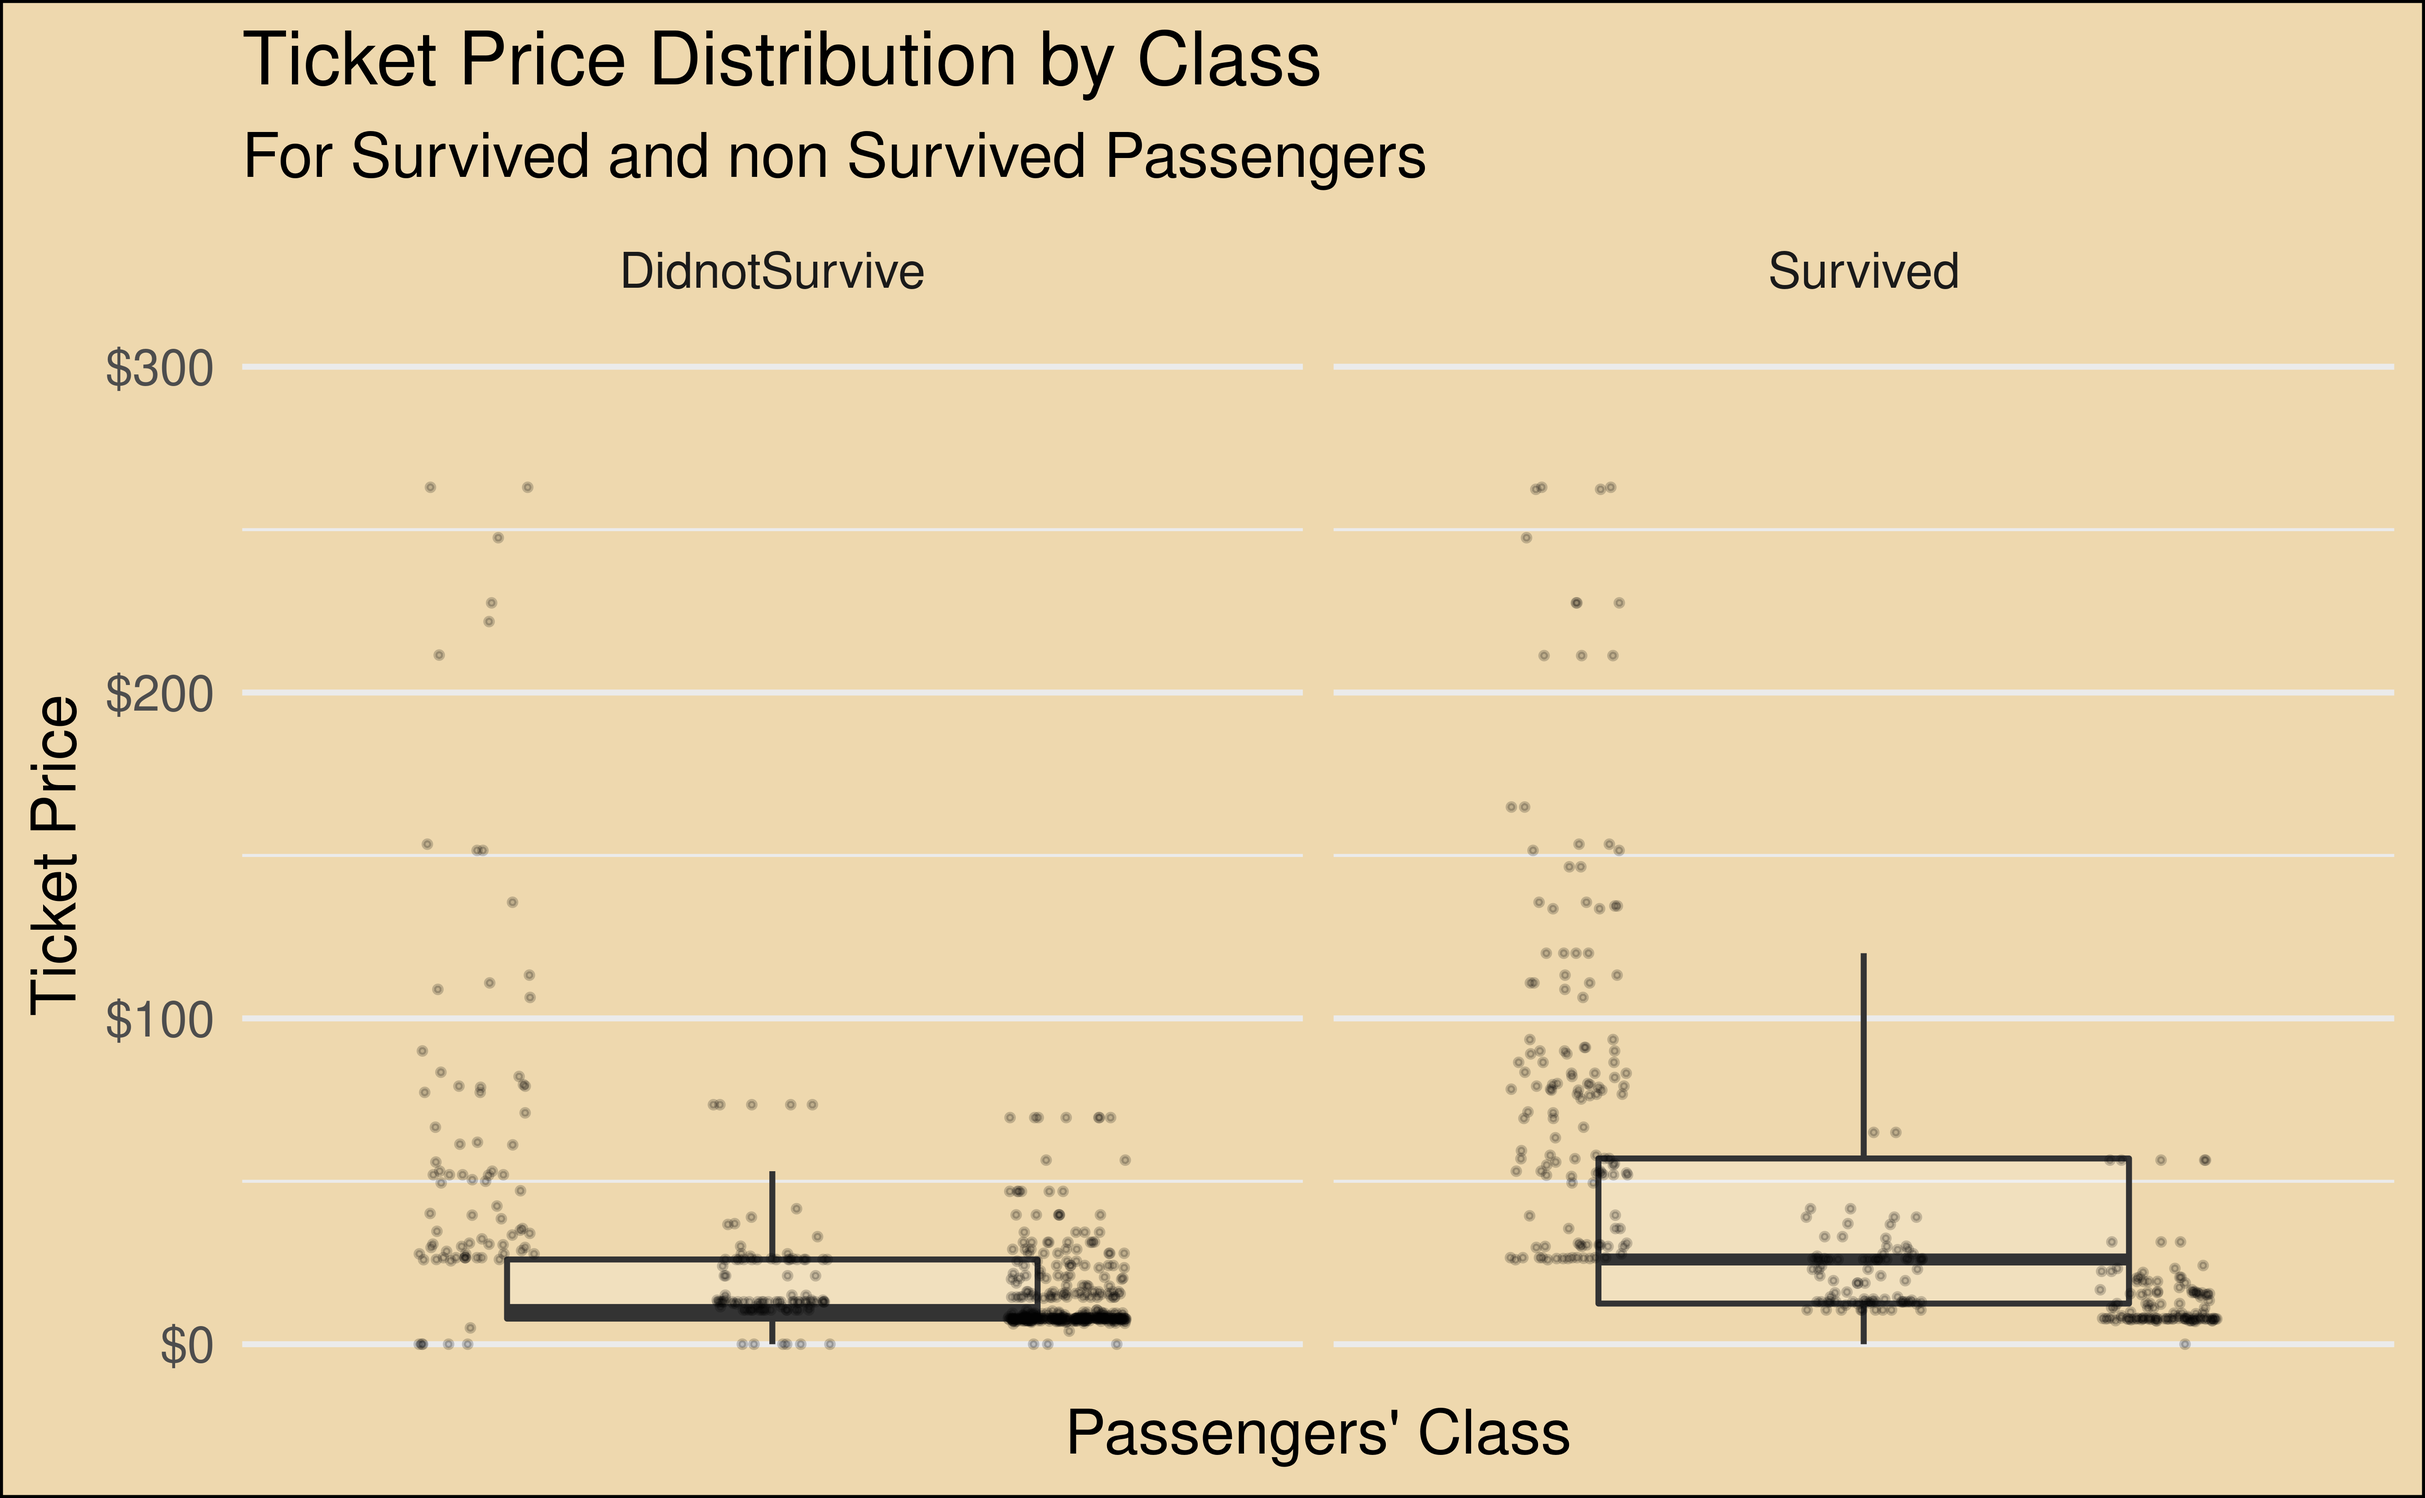
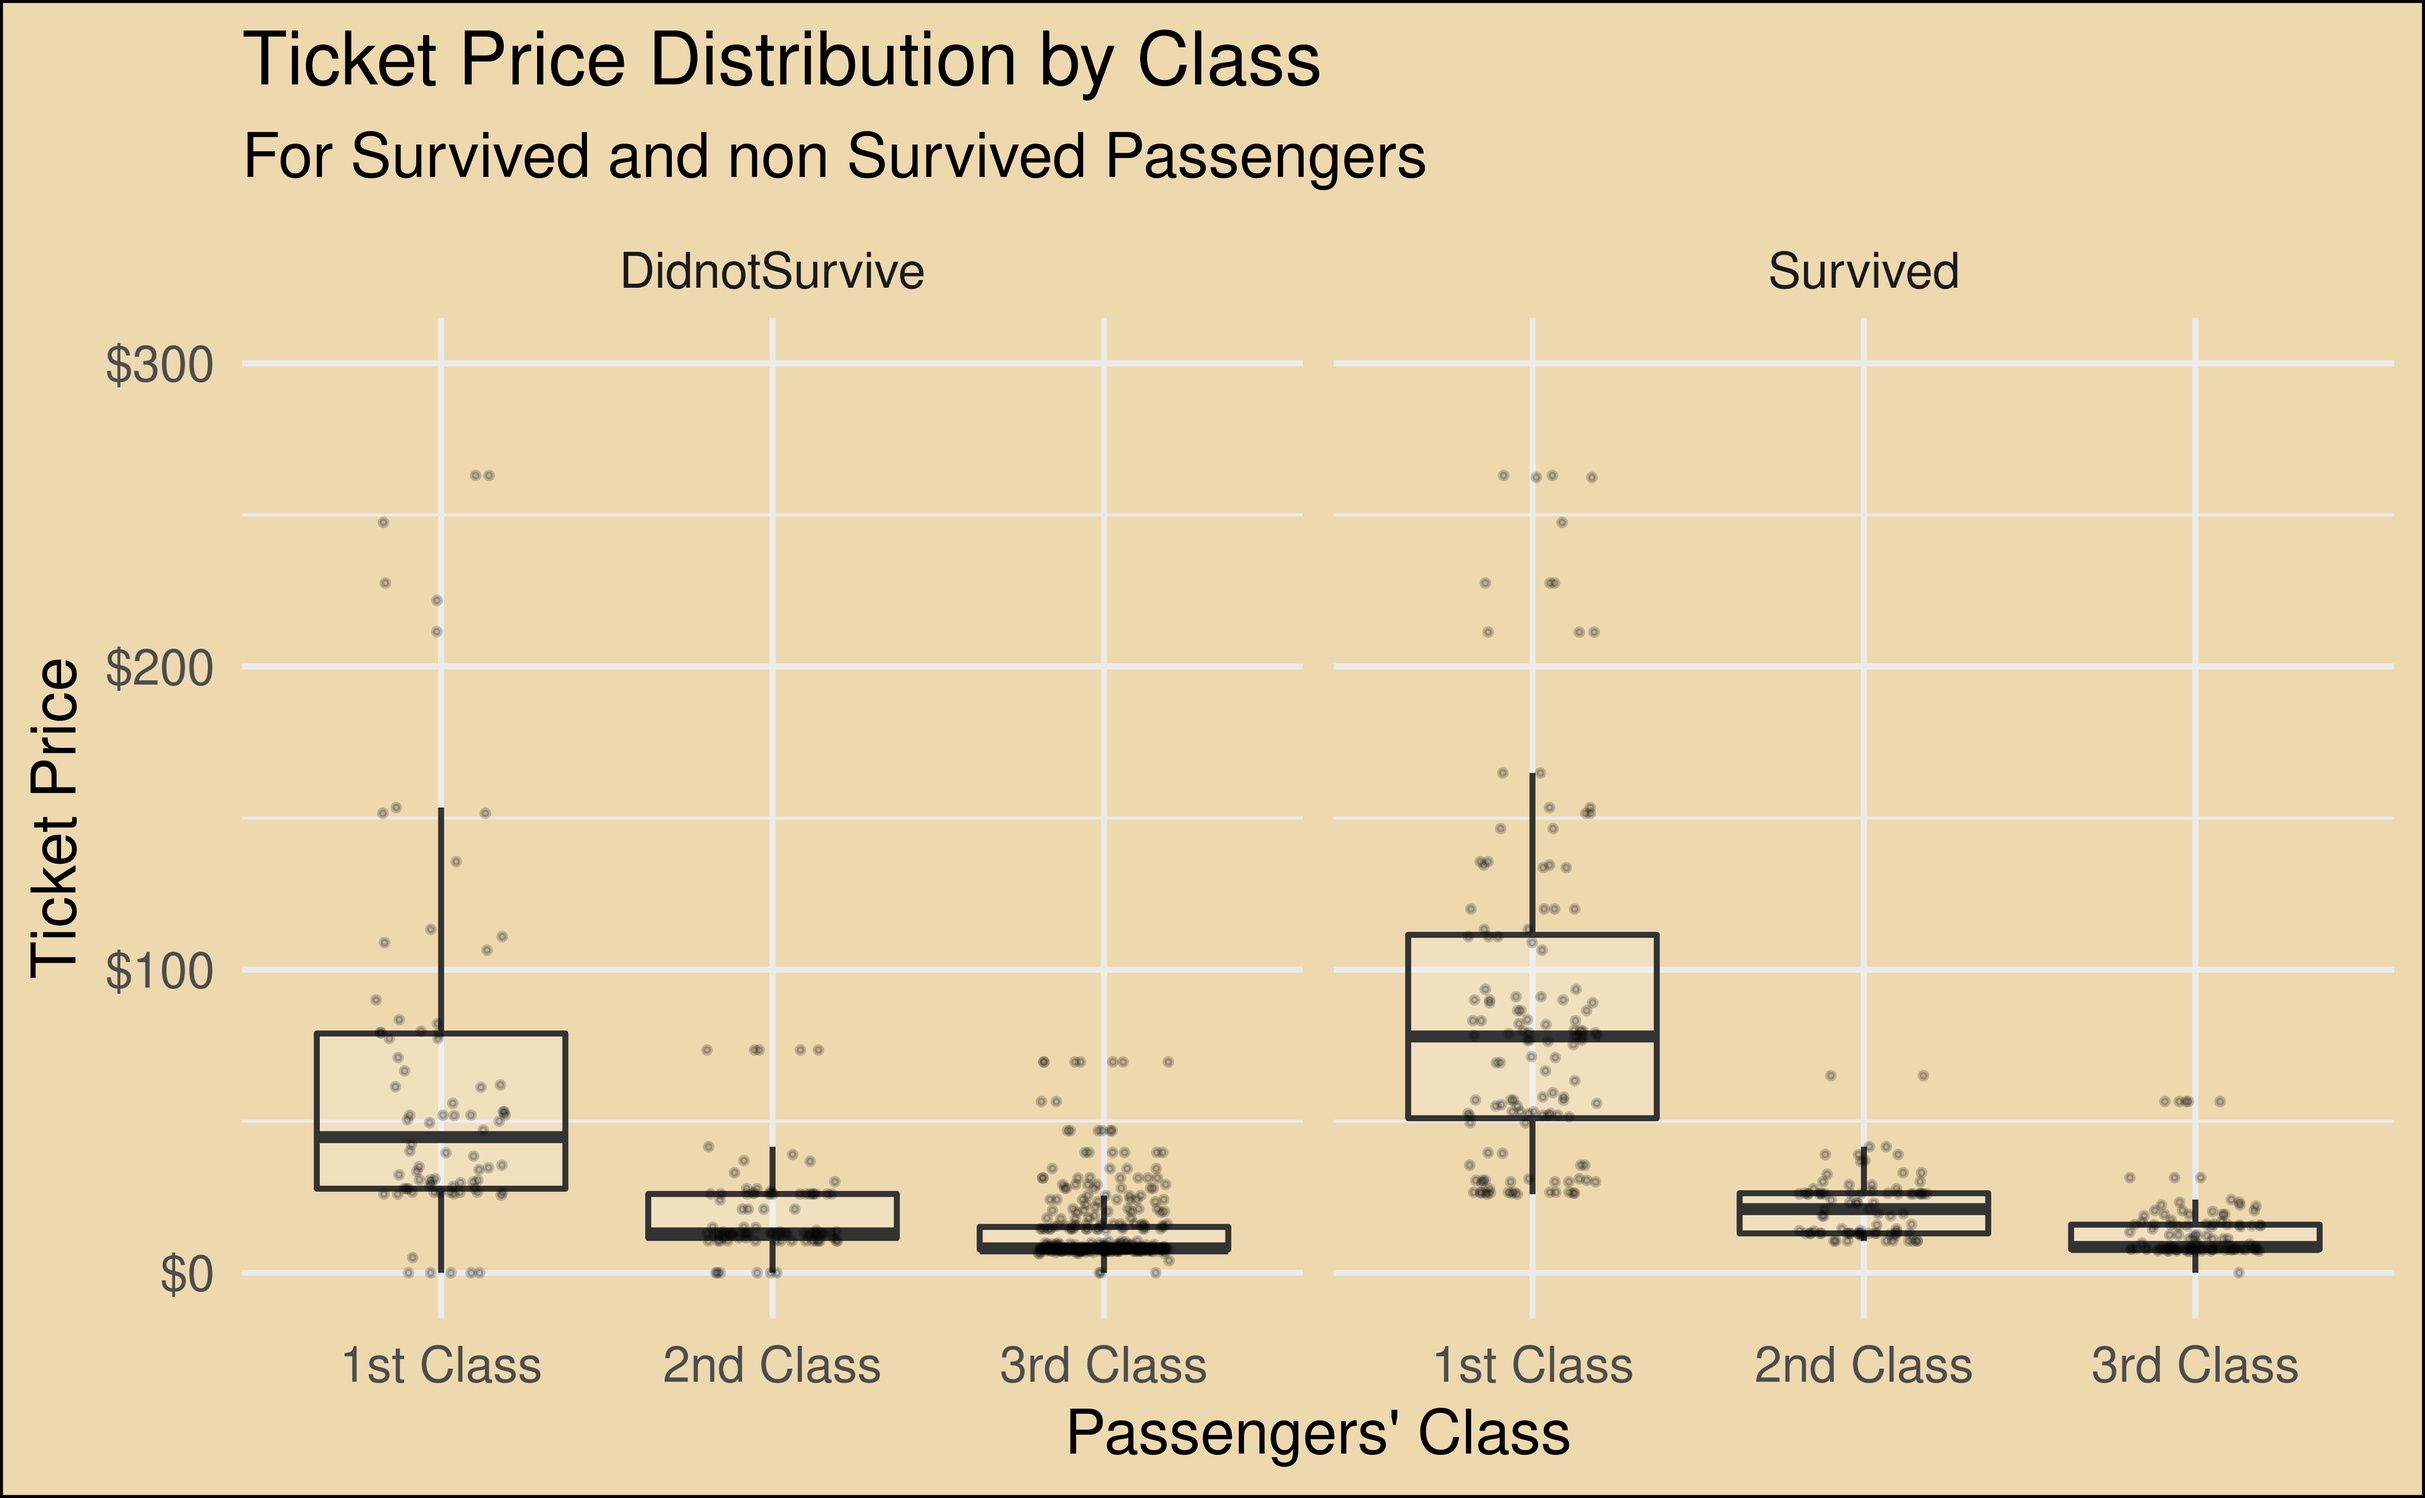
d merge

diff --git a/presentation/presentation.html b/presentation/presentation.html
@@ -43,19 +43,11 @@ class: center, middle, inverse, title-slide
 - Bibliography
  
 ---
-<<<<<<< HEAD
 class: inverse , middle , center 
 # Research Aim 
 
  
 ### Is the chance of survival of Titanic passengers related to different attributes of the passengers? If so, how?
-=======
-"Touted as the ultimate in transatlantic travel and said to be “unsinkable”, the Titanic collided with an iceberg on 14 April 1912 on her maiden voyage and sank shortly thereafter on 15 April, killing 1502 out of 2224 passengers and crew." [1]
- 
-We want to see 
- 
-### If and how the chance of survival of Titanic passengers is related to different attributes of the passengers 
->>>>>>> 62e0271849606b4f855d0f79118545d1473f6d5f
  
 ---
 # Data set
@@ -73,7 +65,6 @@ We want to see
 - `Embarked`: Port of embarkation (C = Cherbourg, Q = Queenstown, S = Southampton)[3] ]
  
 ---
-<<<<<<< HEAD
 class: inverse, middle, center 
 
 # Is Age related to Passenger's Survival Rate ? 
@@ -87,33 +78,6 @@ class: inverse, middle, center
 
 Age is considered a major factor of survival when it comes to physical abilities of a passenger as well as prioritizing  life saving equipment 
 
-=======
-class: inverse, middle, center
-# Gender and Survival
- 
----
- 
-# Introduction
-* During the times when the sinking of the Titanic accident occurred (1912), in the spirit of chivalry women (and children) were saved first. This was historically recorded as orders from the captain of the Titanic.
---
- 
- 
- 
-* Women have higher survival rate than men. 
- 
----
- 
-# Visualization
-.pull-left[
-- Use gender as the predictor variable and frequency displayed in terms of colors showing survivals or not as the outcome variable.
-]
- 
-.pull-right[
-&lt;img src="presentation_files/figure-html/gender-survival-1.png" width="100%" /&gt;
-]
- 
- 
->>>>>>> 62e0271849606b4f855d0f79118545d1473f6d5f
 ---
 
 .left-column[
@@ -189,7 +153,6 @@ class: inverse, middle, center
 &lt;img src="presentation_files/figure-html/age-survival-rate-1.png" width="80%" /&gt;
 ]
 ---
-<<<<<<< HEAD
 class: inverse, middle, center
 
 ## Is Gender related to Passenger's Survival Rate ?
@@ -237,59 +200,10 @@ class: inverse, middle, center
    &lt;th style="text-align:center;"&gt; Passenger Class &lt;/th&gt;
    &lt;th style="text-align:center;"&gt; Survived &lt;/th&gt;
    &lt;th style="text-align:center;"&gt; Median Price ($) &lt;/th&gt;
-=======
- 
-class: inverse, middle, center
-# Age and Survival
----
-# Introduction
-- give priority to saving infants and children when it comes to providing life saving equipment
- 
-- physical abilities
----
-# Data analysis 
-.pull-left[
-&lt;img src="presentation_files/figure-html/age-survival-1.png" width="90%" /&gt;
-]
- 
- 
-.pull_right[
- 
-- Predicted variable are "Age" and "Frequency" as the outcome variable. 
-- generally, the younger the more people survived.
-]
----
- 
- 
-.pull_left
-
- 
-&lt;img src="presentation_files/figure-html/unnamed-chunk-1-1.png" width="80%" /&gt;
- 
---- 
- 
-class: inverse, middle, center 
-# Is wealth associated with passengers' survival rate ? 
---- 
-# Ticket Price &amp; Passengers' Class  
- 
-.pull-left[ 
-&lt;img src="presentation_files/figure-html/fare-boxplot -1.png" width="1200" /&gt;
-] 
- 
-.pull-right[  
-&lt;table&gt;
- &lt;thead&gt;
-  &lt;tr&gt;
-   &lt;th style="text-align:left;"&gt; Passenger_Class &lt;/th&gt;
-   &lt;th style="text-align:left;"&gt; Survived &lt;/th&gt;
-   &lt;th style="text-align:right;"&gt; Median_Price_USD &lt;/th&gt;
->>>>>>> 62e0271849606b4f855d0f79118545d1473f6d5f
   &lt;/tr&gt;
  &lt;/thead&gt;
 &lt;tbody&gt;
   &lt;tr&gt;
-<<<<<<< HEAD
    &lt;td style="text-align:center;"&gt; 1st Class &lt;/td&gt;
    &lt;td style="text-align:center;"&gt; No &lt;/td&gt;
    &lt;td style="text-align:center;"&gt; 44.75 &lt;/td&gt;
@@ -318,52 +232,16 @@ class: inverse, middle, center
    &lt;td style="text-align:center;"&gt; 3rd Class &lt;/td&gt;
    &lt;td style="text-align:center;"&gt; Yes &lt;/td&gt;
    &lt;td style="text-align:center;"&gt; 8.52 &lt;/td&gt;
-=======
-   &lt;td style="text-align:left;"&gt; 1st Class &lt;/td&gt;
-   &lt;td style="text-align:left;"&gt; No &lt;/td&gt;
-   &lt;td style="text-align:right;"&gt; 44.7500 &lt;/td&gt;
-  &lt;/tr&gt;
-  &lt;tr&gt;
-   &lt;td style="text-align:left;"&gt; 1st Class &lt;/td&gt;
-   &lt;td style="text-align:left;"&gt; Yes &lt;/td&gt;
-   &lt;td style="text-align:right;"&gt; 77.9583 &lt;/td&gt;
-  &lt;/tr&gt;
-  &lt;tr&gt;
-   &lt;td style="text-align:left;"&gt; 2nd Class &lt;/td&gt;
-   &lt;td style="text-align:left;"&gt; No &lt;/td&gt;
-   &lt;td style="text-align:right;"&gt; 13.0000 &lt;/td&gt;
-  &lt;/tr&gt;
-  &lt;tr&gt;
-   &lt;td style="text-align:left;"&gt; 2nd Class &lt;/td&gt;
-   &lt;td style="text-align:left;"&gt; Yes &lt;/td&gt;
-   &lt;td style="text-align:right;"&gt; 21.0000 &lt;/td&gt;
-  &lt;/tr&gt;
-  &lt;tr&gt;
-   &lt;td style="text-align:left;"&gt; 3rd Class &lt;/td&gt;
-   &lt;td style="text-align:left;"&gt; No &lt;/td&gt;
-   &lt;td style="text-align:right;"&gt; 8.0500 &lt;/td&gt;
-  &lt;/tr&gt;
-  &lt;tr&gt;
-   &lt;td style="text-align:left;"&gt; 3rd Class &lt;/td&gt;
-   &lt;td style="text-align:left;"&gt; Yes &lt;/td&gt;
-   &lt;td style="text-align:right;"&gt; 8.5167 &lt;/td&gt;
->>>>>>> 62e0271849606b4f855d0f79118545d1473f6d5f
   &lt;/tr&gt;
 &lt;/tbody&gt;
 &lt;/table&gt;
 ]  
  
-<<<<<<< HEAD
 ---
-=======
---- 
- 
->>>>>>> 62e0271849606b4f855d0f79118545d1473f6d5f
 class: middle, center 
  
 &lt;img src="presentation_files/figure-html/class-survival -1.png" width="80%" /&gt;
  
-<<<<<<< HEAD
 ---
 class:middle, center 
 
@@ -430,16 +308,6 @@ class:middle, center
 &lt;/table&gt;
 ]
 
-=======
---- 
-class:middle, center 
- 
-
- 
- 
-&lt;img src="presentation_files/figure-html/unnamed-chunk-2-1.png" width="80%" /&gt;
- 
->>>>>>> 62e0271849606b4f855d0f79118545d1473f6d5f
 
 ---
 class: inverse, center, middle
